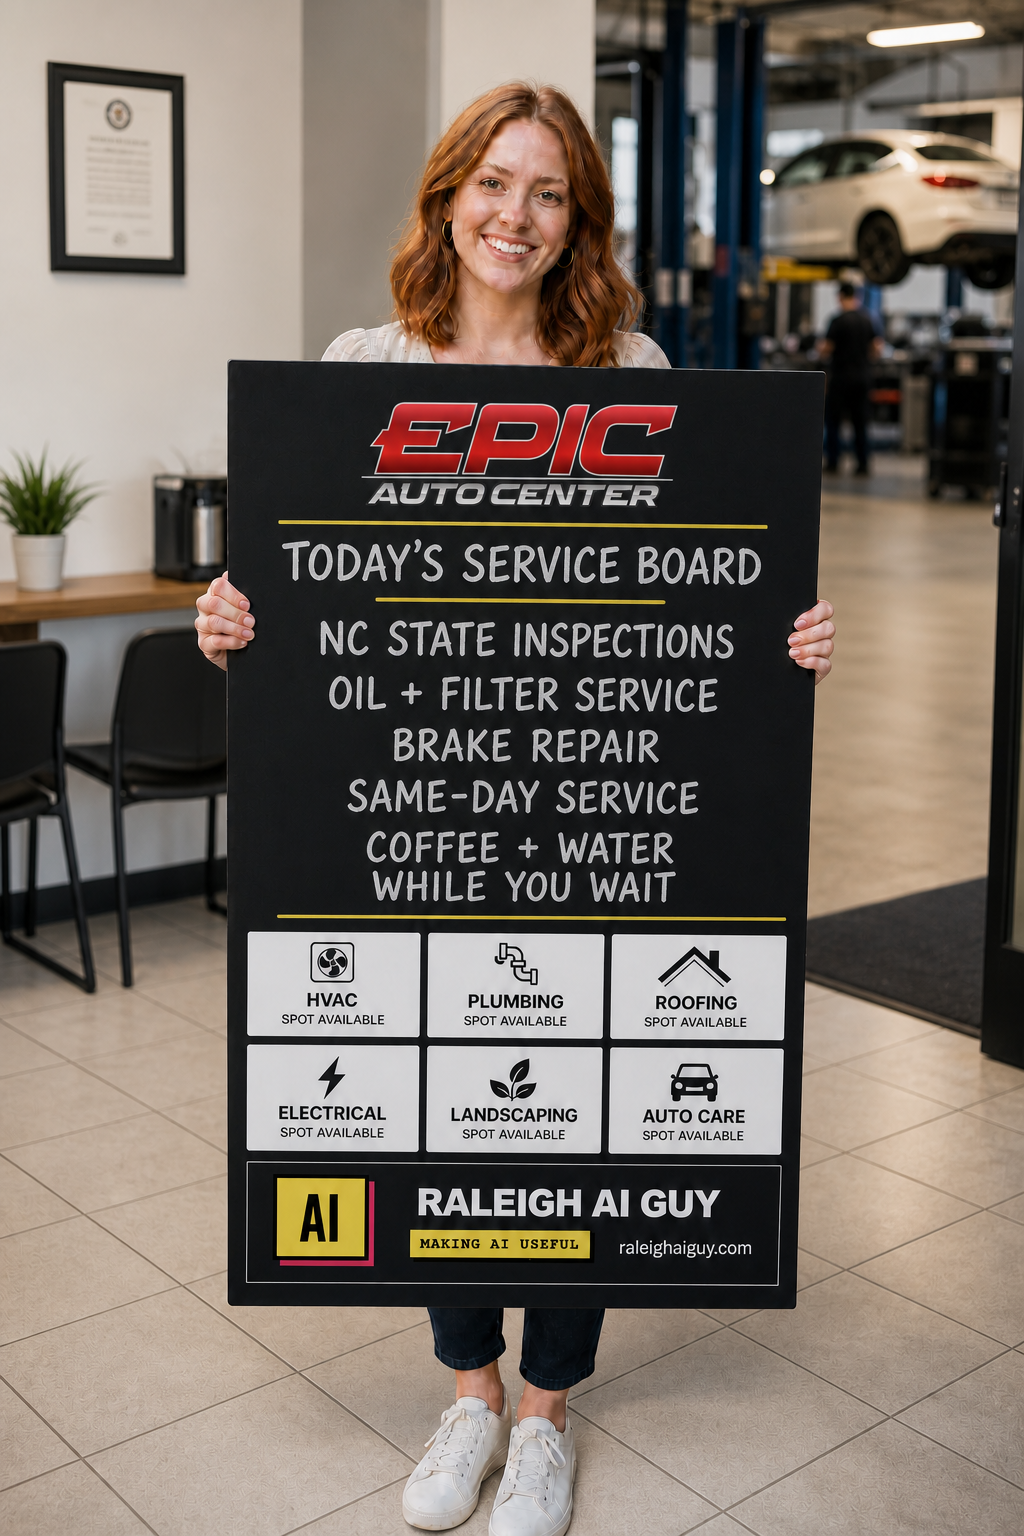
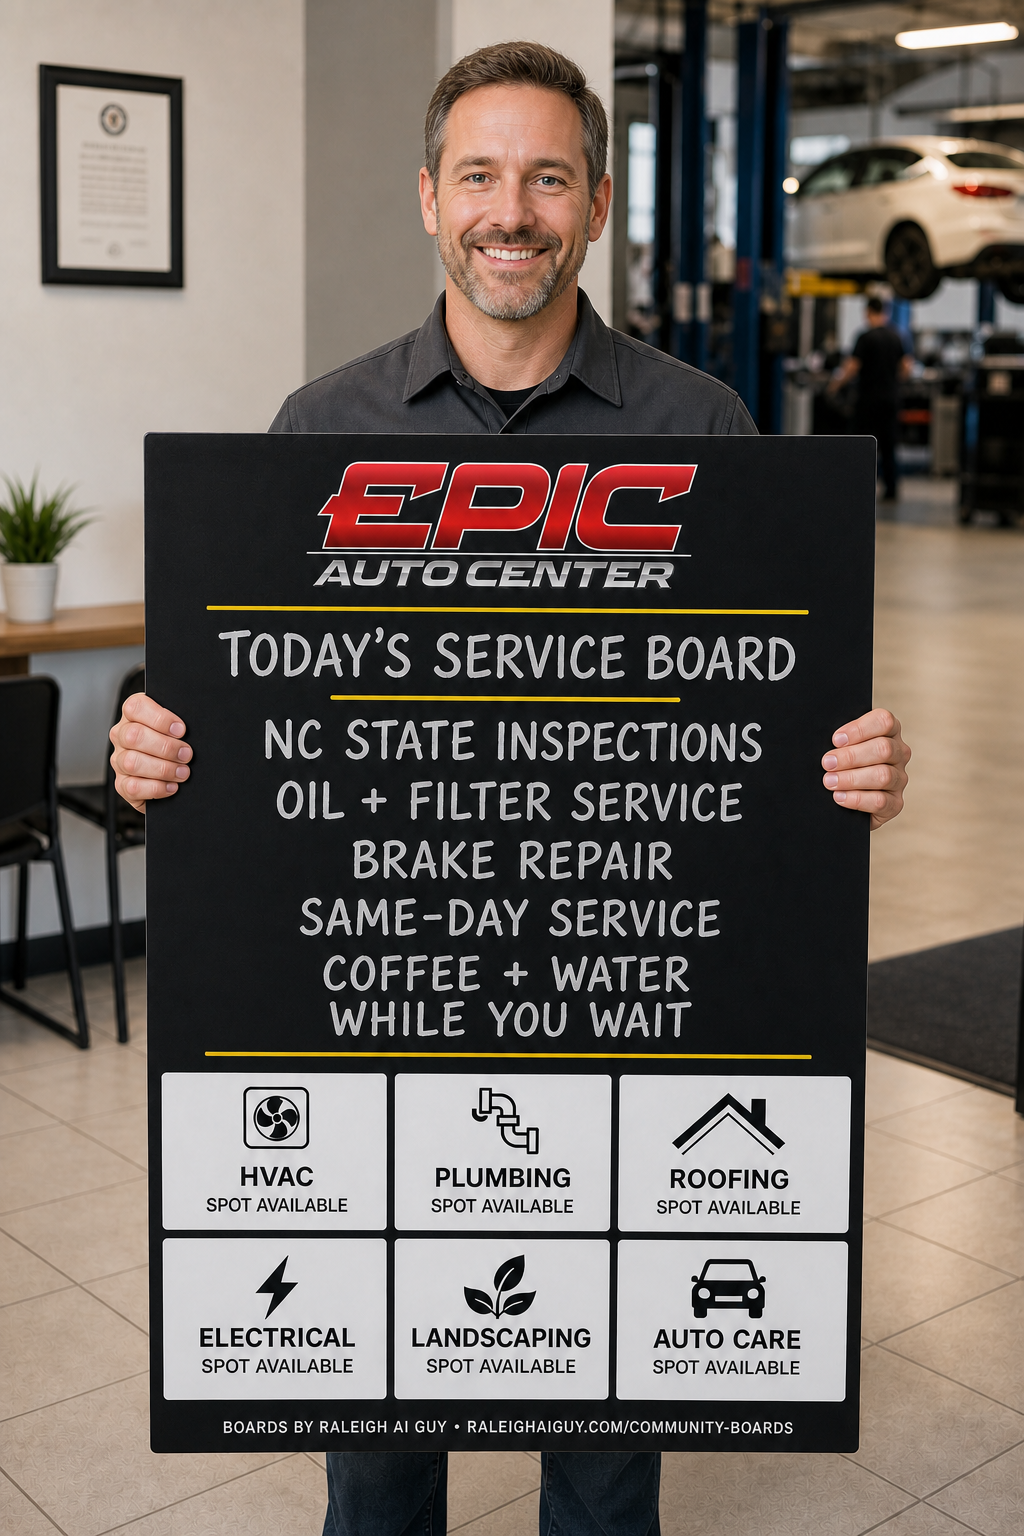
Refresh board gallery and add private pitch pages

diff --git a/src/data/communityBoardProspects.ts b/src/data/communityBoardProspects.ts
@@ -1,0 +1,37 @@
+import type { ImageMetadata } from 'astro';
+
+import periBrothers from '@/images/community-boards/venue-concepts/peri-brothers-specials-final.png';
+import twoRoosters from '@/images/community-boards/venue-concepts/two-roosters-specials-final.png';
+import noraCafe from '@/images/community-boards/venue-concepts/nora-cafe-specials-final.png';
+import fit4Life from '@/images/community-boards/venue-concepts/fit4life-specials.png';
+import bombayCurry from '@/images/community-boards/venue-concepts/bombay-curry-specials-final.png';
+import gonzaTacos from '@/images/community-boards/venue-concepts/gonza-tacos-specials.png';
+import brierCreekBeerGarden from '@/images/community-boards/host-concepts/brier-creek-beer-garden-final.png';
+import trali from '@/images/community-boards/host-concepts/trali-irish-pub.png';
+import epicAuto from '@/images/community-boards/host-concepts/epic-auto-center.png';
+import manchesters from '@/images/community-boards/host-concepts/manchesters-grill.png';
+import ruckusLeesville from '@/images/community-boards/host-concepts/ruckus-leesville.png';
+
+export interface CommunityBoardProspect {
+  slug: string;
+  name: string;
+  area: string;
+  venueType: string;
+  image: ImageMetadata;
+  fit: string;
+  uses: string[];
+}
+
+export const communityBoardProspects: CommunityBoardProspect[] = [
+  { slug: 'peri-brothers', name: 'Peri Brothers Pizza & Pasta', area: 'North Raleigh', venueType: 'Neighborhood restaurant', image: periBrothers, fit: 'A reusable board gives regulars an immediate reason to notice weekly pizzas, dinner features, and takeout offers.', uses: ['Weekly pizza and dinner features', 'Takeout and catering reminders', 'Community events and announcements'] },
+  { slug: 'two-roosters', name: 'Two Roosters Ice Cream', area: 'Raleigh', venueType: 'Ice cream shop', image: twoRoosters, fit: 'Rotating flavors are naturally visual, timely content—exactly what a prominent handwritten board is built to feature.', uses: ['Seasonal and limited flavors', 'Collaboration announcements', 'Events and catering'] },
+  { slug: 'nora-cafe', name: 'NoRa Cafe', area: 'North Raleigh', venueType: 'Coffee shop', image: noraCafe, fit: 'A cafe board can turn repeat morning traffic into daily engagement with featured drinks, events, and neighborhood news.', uses: ['Barista drink features', 'Book and community events', 'Seasonal menu changes'] },
+  { slug: 'fit4life', name: 'Fit4Life Health Clubs', area: 'North Raleigh', venueType: 'Fitness club', image: fit4Life, fit: 'Members pass the same reception area repeatedly, creating a strong place for class schedules and useful local visibility.', uses: ['Today’s class schedule', 'Member challenges and events', 'Trainer and amenity updates'] },
+  { slug: 'bombay-curry', name: 'Bombay Curry', area: 'North Raleigh', venueType: 'Indian restaurant', image: bombayCurry, fit: 'A custom board makes chef features and rotating dishes visible before guests reach the table or place a takeout order.', uses: ['Chef and dinner specials', 'Featured breads and desserts', 'Catering and holiday menus'] },
+  { slug: 'gonza-tacos', name: 'Gonza Tacos y Tequila', area: 'North Raleigh', venueType: 'Restaurant and bar', image: gonzaTacos, fit: 'The format matches a lively hospitality brand and gives tacos, cocktails, and events a high-impact daily showcase.', uses: ['Taco and cocktail features', 'Happy hour reminders', 'Live events and celebrations'] },
+  { slug: 'brier-creek-beer-garden', name: 'Brier Creek Beer Garden', area: 'Brier Creek', venueType: 'Beer garden', image: brierCreekBeerGarden, fit: 'Longer visits, rotating taps, and weekly programming make this an especially natural home for a reusable event board.', uses: ['Tap takeovers and releases', 'Run club and weekly events', 'Food and drink features'] },
+  { slug: 'trali-irish-pub', name: 'Tra’Li Irish Pub', area: 'Brier Creek', venueType: 'Irish pub and restaurant', image: trali, fit: 'A neighborhood pub can keep trivia, sports, brunch, and traditional menu features visible throughout the week.', uses: ['Trivia and live events', 'Match-day programming', 'Food and brunch features'] },
+  { slug: 'epic-auto-center', name: 'EPIC Auto Center', area: 'North Raleigh', venueType: 'Automotive service center', image: epicAuto, fit: 'Customers waiting for service are a valuable, attentive audience, while the board also communicates today’s shop services.', uses: ['Inspection and service reminders', 'Seasonal maintenance guidance', 'Waiting-area information'] },
+  { slug: 'manchesters-grill', name: 'Manchester’s Grill', area: 'Leesville / North Raleigh', venueType: 'Neighborhood grill', image: manchesters, fit: 'Weekly dinner, burger, and soup features give regular customers fresh information every time they visit.', uses: ['Weekly dinner specials', 'Burger and soup features', 'Family and community announcements'] },
+  { slug: 'ruckus-leesville', name: 'Ruckus Pizza, Pasta & Spirits — Leesville', area: 'Leesville / North Raleigh', venueType: 'Pizza restaurant and sports bar', image: ruckusLeesville, fit: 'A high-energy neighborhood restaurant can use the board for food favorites, game-day programming, and rotating events.', uses: ['Food and drink favorites', 'Game-day features', 'Events, parties, and catering'] },
+];
